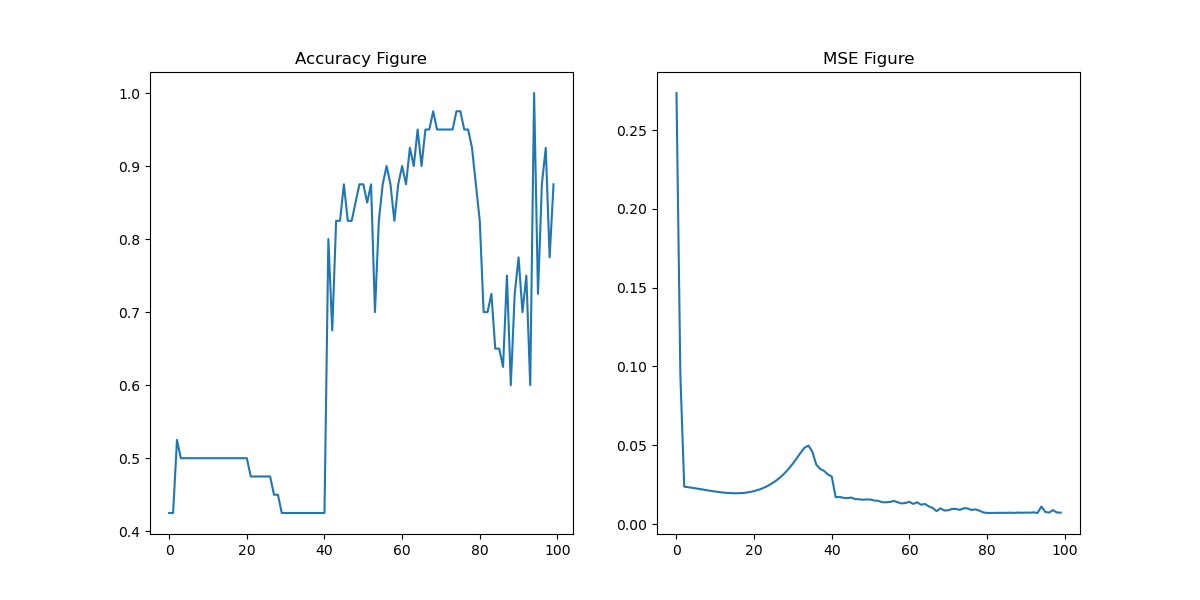
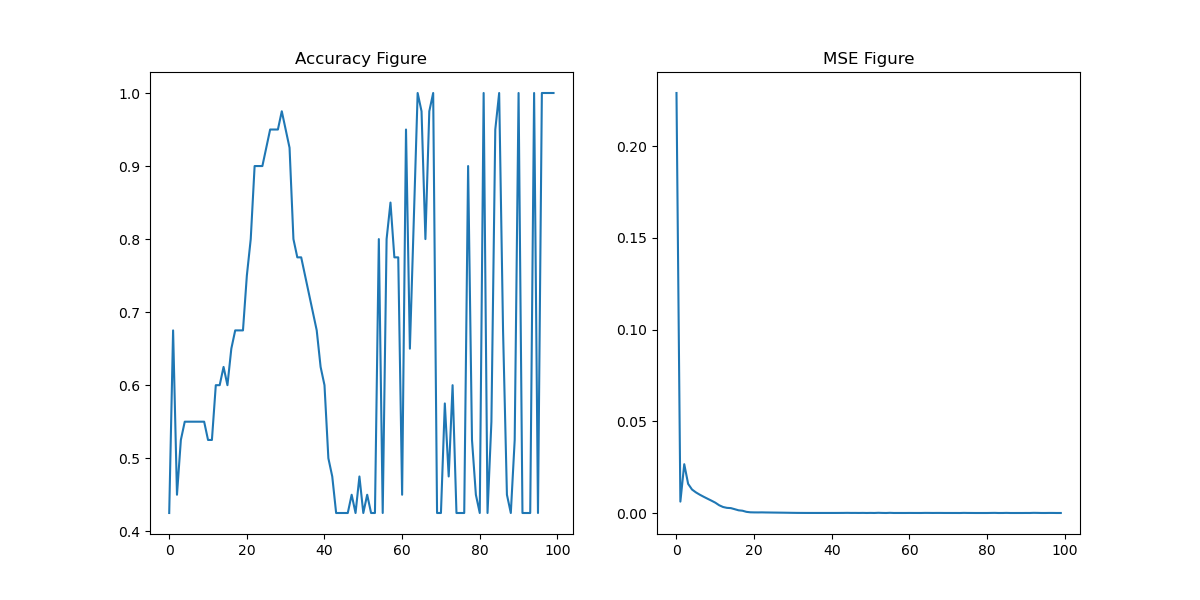
添加多分类示例

diff --git a/classifier.py b/classifier.py
@@ -6,50 +6,73 @@ from TinyLearner import *
 
 # %% read data
 df = pd.read_csv('data/iris.data', header=None)
-X = np.array(df.iloc[:, 0:4])
-name_dict = {'Iris-setosa': 0, 'Iris-versicolor': 1}
+X = np.array(df.iloc[:, 2:4])
+name_dict = {'Iris-setosa': 0, 'Iris-versicolor': 1, 'Iris-virginica': 2}
 y = df.iloc[:, 4].map(name_dict).to_numpy()
 
 X_train, X_test, y_train, y_test = \
     train_test_split(X, y, test_size=0.4, random_state=42)
 
+plt.scatter(x=X[:, 0],
+            y=X[:, 1],
+            c=y,
+            cmap=plt.cm.RdYlBu)
+plt.show()
 
 # %% build neural network
 
 
 class Classifier:
     def __init__(self, optimum):
-        self.x = [[Number(0)], [Number(0)], [Number(0)], [Number(0)]]
-        self.weights_from_input = create_randoms(5, 4, seed=42)
-        self.bias_from_input = create_randoms(5, 1, seed=42)
-        self.weights_to_output = create_randoms(1, 5, seed=42)
-        self.bias_to_output = create_randoms(1, 1, seed=42)
+        self.x = [[Number(0)], [Number(0)]]
+
+        self.weights_from_input = create_randoms(3, 2, seed=42)
+        self.bias_from_input = create_randoms(3, 1, seed=42)
+
+        self.weights_hidden = create_randoms(3, 3, seed=42)
+        self.bias_hidden = create_randoms(3, 1, seed=42)
+
+        self.weights_to_output = create_randoms(3, 3, seed=42)
+        self.bias_to_output = create_randoms(3, 1, seed=42)
 
         tmp = mat_mul(self.weights_from_input, self.x)
         tmp = mat_add(self.bias_from_input, tmp)
         tmp = [[ReLU(i) for i in row] for row in tmp]
+
+        tmp = mat_mul(self.weights_hidden, tmp)
+        tmp = mat_add(self.bias_hidden, tmp)
+        tmp = [[ReLU(i) for i in row] for row in tmp]
+
         tmp = mat_mul(self.weights_to_output, tmp)
         self.net = mat_add(self.bias_to_output, tmp)
 
-        self.y = Number(0)
-        d = Sub(self.y, self.net[0][0])
-        self.loss = Mul(Const(0.5), Sqr(d))
+        self.y = [Number(0), Number(0), Number(0)]
+        d = [Abs(Sub(self.y[i], self.net[i][0])) for i in range(len(self.y))]
+        d = Add(*d)
+        self.loss = Abs(d)
 
         self.optimum = optimum
         self.optimum.set_params([self.weights_from_input,
                                  self.bias_from_input,
+                                 self.weights_hidden,
+                                 self.bias_hidden,
                                  self.weights_to_output,
                                  self.bias_to_output])
 
-    def __call__(self, x) -> float:
+    def __call__(self, x) -> list:
         for i in range(len(x)):
             self.x[i][0].set_value(x[i])
-        return self.net[0][0].value()
+        return [[i.value() for i in row] for row in self.net]
 
     def fit(self, x, y):
         for i in range(len(x)):
             self.x[i][0].set_value(x[i])
-        self.y.set_value(y)
+
+        for i in range(len(self.y)):
+            self.y[i].set_value(0)
+
+        self.y[y].set_value(1)
+
         self.optimum.step(self.loss)
 
 
@@ -58,47 +81,28 @@ classifier = Classifier(Adam(lr=0.01))
 
 # %% train model
 
-
-def sigmoid(x):
-    return 1 / (1 + np.exp(-x))
-
-
-def save_state():
-    global y_logits, y_pred, acc
-    y_logits = np.array([classifier(x) for x in X])
-    mse = np.mean(np.square(y - y_logits))
-    y_pred = [np.round(sigmoid(y_logits))]
-    acc = np.sum(y_pred == y) / len(y)
-    print(f'MSE: {mse}')
+def softmax(x):
+    return np.exp(x) / np.sum(np.exp(x), axis=0)
 
 
-best_acc = 0
-acc_record = []
-mse_record = []
-for epoch in range(100):
+for epoch in range(500):
+    print('Epoch:', epoch)
     for ax, ay in zip(X_train, y_train):
         classifier.fit(ax, ay)
 
-    y_logits = np.array([classifier(x) for x in X_test])
-    mse = np.mean(np.square(y_test - y_logits))
-    y_pred = [np.round(sigmoid(y_logits))]
-    acc = np.sum(y_pred == y_test) / len(y_test)
 
-    acc_record.append(acc)
-    mse_record.append(mse)
+y_preds = []
 
-    if acc > best_acc:
-        best_acc = acc
-        save_state()
+for ax in X:
+    y_logits = np.array(classifier(ax))
+    y_pred = softmax(y_logits).argmax()
+    y_preds.append(y_pred)
 
-    if epoch % 10 == 0:
-        print(f'[{epoch}] Accuracy: {acc}, Best Accuracy: {best_acc}')
+acc = np.sum(y_preds == y) / len(y)
+print(f'Accuracy: {acc}')
 
-plt.figure(figsize=(12, 6))
-plt.subplot(1, 2, 1)
-plt.title('Accuracy Figure')
-plt.plot(acc_record)
-plt.subplot(1, 2, 2)
-plt.title('MSE Figure')
-plt.plot(mse_record)
-plt.savefig('images/record.png')
+plt.scatter(x=X[:, 0],
+            y=X[:, 1],
+            c=y_preds,
+            cmap=plt.cm.RdYlBu)
+plt.show()

diff --git a/classifier-binary.py b/classifier-binary.py
@@ -1,0 +1,104 @@
+import pandas as pd
+from matplotlib import pyplot as plt
+from sklearn.model_selection import train_test_split
+
+from TinyLearner import *
+
+# %% read data
+df = pd.read_csv('data/iris-binary.data', header=None)
+X = np.array(df.iloc[:, 0:4])
+name_dict = {'Iris-setosa': 0, 'Iris-versicolor': 1}
+y = df.iloc[:, 4].map(name_dict).to_numpy()
+
+X_train, X_test, y_train, y_test = \
+    train_test_split(X, y, test_size=0.4, random_state=42)
+
+
+# %% build neural network
+
+
+class Classifier:
+    def __init__(self, optimum):
+        self.x = [[Number(0)], [Number(0)], [Number(0)], [Number(0)]]
+        self.weights_from_input = create_randoms(5, 4, seed=42)
+        self.bias_from_input = create_randoms(5, 1, seed=42)
+        self.weights_to_output = create_randoms(1, 5, seed=42)
+        self.bias_to_output = create_randoms(1, 1, seed=42)
+
+        tmp = mat_mul(self.weights_from_input, self.x)
+        tmp = mat_add(self.bias_from_input, tmp)
+        tmp = [[Tanh(i) for i in row] for row in tmp]
+        tmp = mat_mul(self.weights_to_output, tmp)
+        self.net = mat_add(self.bias_to_output, tmp)
+
+        self.y = Number(0)
+        d = Sub(self.y, self.net[0][0])
+        self.loss = Mul(Const(0.5), Sqr(d))
+
+        self.optimum = optimum
+        self.optimum.set_params([self.weights_from_input,
+                                 self.bias_from_input,
+                                 self.weights_to_output,
+                                 self.bias_to_output])
+
+    def __call__(self, x) -> float:
+        for i in range(len(x)):
+            self.x[i][0].set_value(x[i])
+        return self.net[0][0].value()
+
+    def fit(self, x, y):
+        for i in range(len(x)):
+            self.x[i][0].set_value(x[i])
+        self.y.set_value(y)
+        self.optimum.step(self.loss)
+
+
+classifier = Classifier(Adam(lr=0.01))
+
+
+# %% train model
+
+
+def sigmoid(x):
+    return 1 / (1 + np.exp(-x))
+
+
+def save_state():
+    global y_logits, y_pred, acc
+    y_logits = np.array([classifier(x) for x in X])
+    mse = np.mean(np.square(y - y_logits))
+    y_pred = [np.round(sigmoid(y_logits))]
+    acc = np.sum(y_pred == y) / len(y)
+    print(f'MSE: {mse}')
+
+
+best_acc = 0
+acc_record = []
+mse_record = []
+for epoch in range(100):
+    for ax, ay in zip(X_train, y_train):
+        classifier.fit(ax, ay)
+
+    y_logits = np.array([classifier(x) for x in X_test])
+    mse = np.mean(np.square(y_test - y_logits))
+    y_pred = [np.round(sigmoid(y_logits))]
+    acc = np.sum(y_pred == y_test) / len(y_test)
+
+    acc_record.append(acc)
+    mse_record.append(mse)
+
+    if acc > best_acc:
+        best_acc = acc
+        save_state()
+
+    if epoch % 10 == 0:
+        print(f'[{epoch}] Accuracy: {acc}, Best Accuracy: {best_acc}')
+
+plt.figure(figsize=(12, 6))
+plt.subplot(1, 2, 1)
+plt.title('Accuracy Figure')
+plt.plot(acc_record)
+plt.subplot(1, 2, 2)
+plt.title('MSE Figure')
+plt.plot(mse_record)
+plt.savefig('images/record.png')

diff --git a/TinyGrader.py b/TinyGrader.py
@@ -151,10 +151,31 @@ class Exp(Expression):
         return np.exp(self.a.value())
 
     def grad(self, x) -> float:
-        res = np.exp(self.a.value())
         if self.a.has_symbol(x):
+            res = np.exp(self.a.value())
             res *= self.a.grad(x)
-        return res
+            return res
+        else:
+            return 0
+
+    def has_symbol(self, x) -> bool:
+        return self.a.has_symbol(x)
+
+
+class Log2(Expression):
+    def __init__(self, a: Expression):
+        self.a = a
+
+    def value(self) -> float:
+        return np.log2(self.a.value())
+
+    def grad(self, x) -> float:
+        if self.a.has_symbol(x):
+            res = 1 / (self.a.value() * np.log(2))
+            res *= self.a.grad(x)
+            return res
+        else:
+            return 0
 
     def has_symbol(self, x) -> bool:
         return self.a.has_symbol(x)
